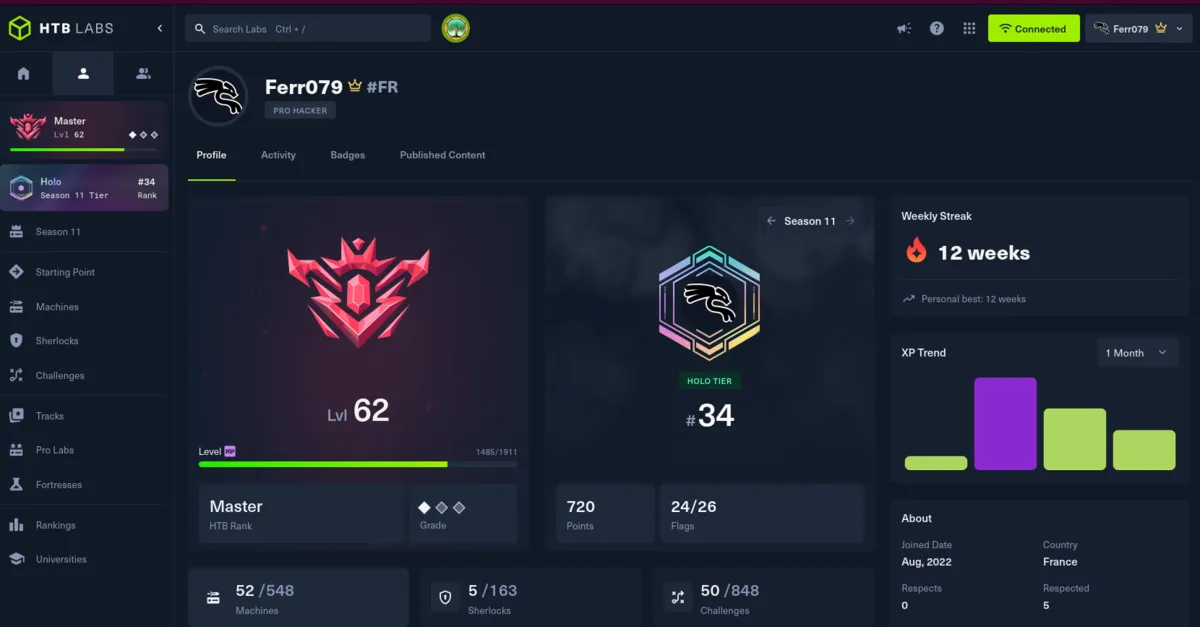
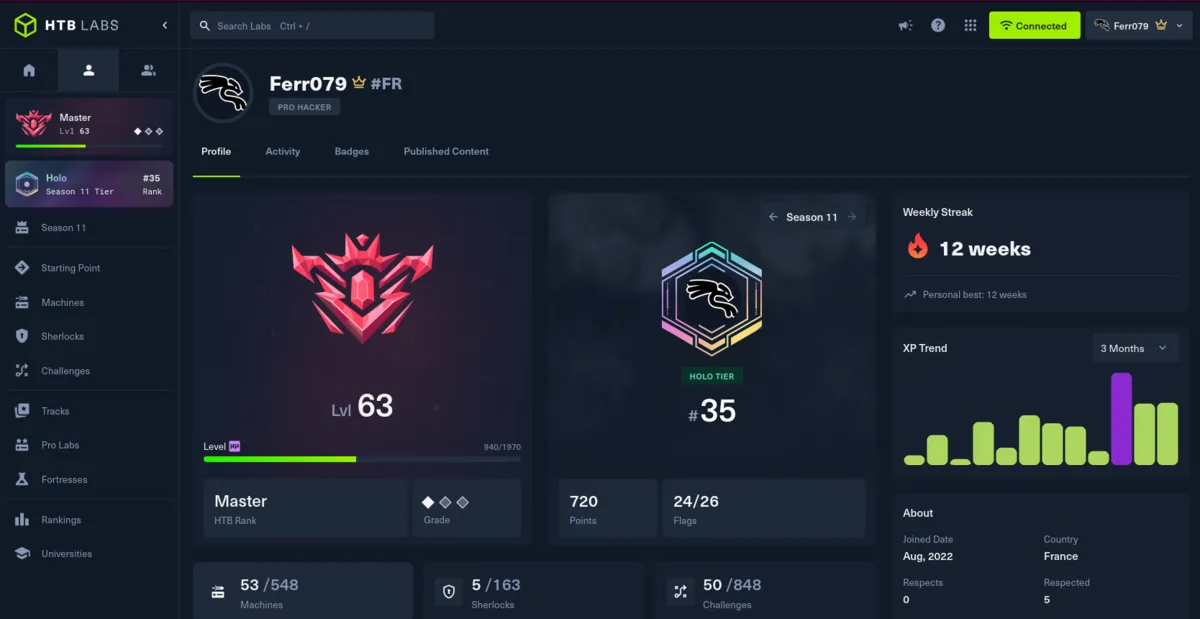
content(ctf): capture recadrée — Lvl 63, Holo #35, 107 flags, #501 mondial
Nouvelle capture fournie par Stéphane, recadrée par lui sur la zone haute
du dashboard. Le dashboard entier (ratio 1,37) ferait 876 px de haut à
1200 de large contre 627 aujourd'hui : il repousserait les sections
suivantes sous le pli et ses graphes/badges deviennent illisibles à cette
échelle. Le recadrage rend un ratio 1,94, soit 1200x619 — quasi identique
à l'existant.

Chiffres réalignés sur le live (API HTB == KV) : #501 mondial (depuis
595), 53 system + 54 user = 107 flags. Saison 11 : Holo #35 sur 12 660,
720 points, 24/26 flags — le rang saison a reculé d'une place depuis hier,
les autres joueurs progressent aussi.

Fallbacks : build-stats.ts, ctf.astro EN+FR, chat.ts, index.astro EN+FR,
about.astro EN+FR, table Profiles du CLAUDE.md. image-dims.ts régénéré
(619 ≠ 627), original + variantes poussés en R2, ?v=20260809.

diff --git a/src/pages/api/chat.ts b/src/pages/api/chat.ts
@@ -34,7 +34,7 @@ async function checkRateLimit(ip: string): Promise<{ allowed: boolean; retryAfte
 // moment de la requête (l'équivalent Worker d'un <DynNum>) ; les fallbacks ne
 // servent que si le KV est injoignable. rootme_validations n'est pas dans le KV.
 async function liveCtfStats(): Promise<Record<string, string>> {
-  const fb: Record<string, string> = { HTB_RANK: '595', HTB_RANK_NAME: 'Pro Hacker', HTB_FLAGS: '105', HTB_MACHINES: '52', ROOTME_SCORE: '1050' };
+  const fb: Record<string, string> = { HTB_RANK: '501', HTB_RANK_NAME: 'Pro Hacker', HTB_FLAGS: '107', HTB_MACHINES: '53', ROOTME_SCORE: '1050' };
   try {
     const stats = await env.STATS_KV.get('stats', { type: 'json' }) as Record<string, unknown> | null;
     const num = (v: unknown, f: string) => { const n = Number(v); return Number.isFinite(n) && n > 0 ? String(n) : f; };

diff --git a/src/image-dims.ts b/src/image-dims.ts
@@ -4,7 +4,7 @@
 // space, kill CLS). Regenerate after adding/replacing images: ./scripts/gen-image-variants.sh
 export const IMAGE_DIMS: Record<string, [number, number]> = {
   "/images/homepage-dashboard.webp": [2944, 2049],
-  "/images/htb-dashboard.webp": [1200, 627],
+  "/images/htb-dashboard.webp": [1200, 619],
   "/images/immich-gallery-1.webp": [1920, 2022],
   "/images/immich-gallery-2.webp": [1920, 2022],
   "/images/monitoring/beszel.webp": [1200, 703],

diff --git a/src/lib/build-stats.ts b/src/lib/build-stats.ts
@@ -28,11 +28,11 @@ const FALLBACK: Record<string, string | number> = {
   uptime_pct: 100.0,
   forgejo_commits_30d: 1473,
   proxmox_nodes: 4,
-  htb_flags: 105,
+  htb_flags: 107,
   htb_rank: 'Pro Hacker',
-  htb_ranking: 595,
-  htb_system_owns: 52,
-  htb_user_owns: 53,
+  htb_ranking: 501,
+  htb_system_owns: 53,
+  htb_user_owns: 54,
   rootme_score: 1050,
   rootme_validations: 75,
   rootme_position: 15486,

diff --git a/CLAUDE.md b/CLAUDE.md
@@ -134,7 +134,7 @@ git push origin main   # origin = Forgejo (org pixelium) ; push-mirror → GitHu
 
 | Platform | Username | Current stats |
 |---|---|---|
-| Hack The Box | Ferr079 | Pro Hacker rank, #595, 52 system + 53 user owns, 105 flags (fallback ctf.astro + build-stats.ts + chat.ts + about.astro `DynNum` aligné sur le KV `/api/stats` — cf [[reference_ctf_htb_stats_freshness]], garder ce fallback à jour à la main). Lvl 62 « Master » · Season 11 **Holo** tier #34 (sur 12 660) · streak 12 sem. (screenshot `htb-dashboard.webp` MAJ 2026-08-08 = Pro Hacker/Lvl 62/Holo #34/12-week, 1200x627 ; `?v=20260808`). ⚠ `/profile/activity` **supprimé par HTB 2026** (HTTP 400) → `flags = user_owns + system_owns`, ne PAS ré-ajouter d'appel activity. NB : `ranking` = rang **global** HTB (≠ `#373` = rang de saison du screenshot) ; le « HTB Rank » du dashboard (Professional → **Master** au Lvl 61) est une **2ᵉ échelle**, distincte du `rank` de l'API (`Pro Hacker`) — les deux coexistent dans la caption |
+| Hack The Box | Ferr079 | Pro Hacker rank, #501, 53 system + 54 user owns, 107 flags (fallback ctf.astro + build-stats.ts + chat.ts + about.astro `DynNum` aligné sur le KV `/api/stats` — cf [[reference_ctf_htb_stats_freshness]], garder ce fallback à jour à la main). Lvl 63 « Master » · Season 11 **Holo** tier #35 (sur 12 660) · streak 12 sem. (screenshot `htb-dashboard.webp` MAJ 2026-08-09 = Pro Hacker/Lvl 63/Holo #35/12-week, 1200x619 ; `?v=20260809` ; **capture recadrée par Stéphane** sur la zone haute — le dashboard entier fait un ratio 1,37 = 876 px de haut à 1200 de large, trop encombrant, et ses graphes/badges deviennent illisibles à cette échelle). ⚠ `/profile/activity` **supprimé par HTB 2026** (HTTP 400) → `flags = user_owns + system_owns`, ne PAS ré-ajouter d'appel activity. NB : `ranking` = rang **global** HTB (≠ `#373` = rang de saison du screenshot) ; le « HTB Rank » du dashboard (Professional → **Master** au Lvl 61) est une **2ᵉ échelle**, distincte du `rank` de l'API (`Pro Hacker`) — les deux coexistent dans la caption |
 | TryHackMe | ferr0 | Top 15%, 35 rooms, 7 badges |
 | Root-Me | Ferr0 | 1050 pts, 75 challenges, #15486 (fallback ctf.astro + build-stats.ts ; score live au build, `rootme_validations`/`rootme_position` absents du KV live — homelab `infra/homelab#117`, gardés en fallback à jour à la main) |
 | GitHub | ferr079 | github.com/ferr079 |
